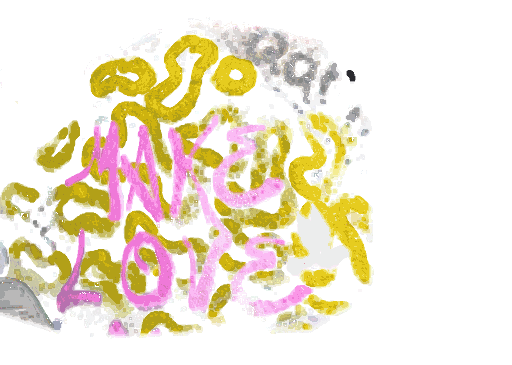
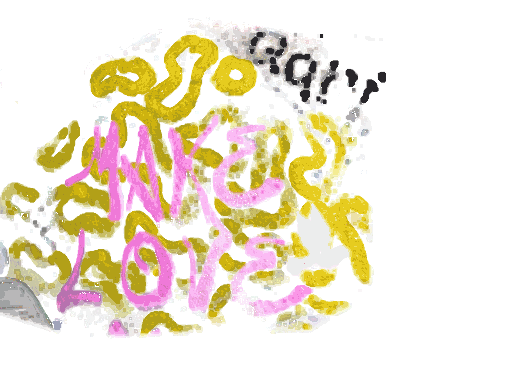
feat(ascii-cave): 換成第十二版（地毯段、整圈回頭、陀螺儀）
- 每圈一段亞美尼亞地毯隧道，新增四張地毯貼圖
- 左右可整圈回頭，手機與平板可用陀螺儀轉視角

Changed region(s): [[0.4688, 0.0603, 0.75, 0.3014]]

diff --git a/ascii-cave/index.html b/ascii-cave/index.html
@@ -35,6 +35,15 @@
   }
   #msg.off { opacity: 0; }
   #msg.err { color: var(--text); }
+  #gyro {
+    position: fixed; z-index: 1; width: 34px; height: 34px; padding: 0; border-radius: 50%;
+    top: calc(env(safe-area-inset-top, 0px) + 10px); right: calc(env(safe-area-inset-right, 0px) + 10px);
+    border: 1px solid rgba(232, 226, 210, 0.18); background: rgba(0, 0, 0, 0.35); color: var(--hint);
+    display: grid; place-items: center; touch-action: manipulation;
+  }
+  #gyro[hidden] { display: none; }
+  #gyro[aria-pressed="false"] { opacity: 0.45; }
+  #gyro svg { width: 18px; height: 18px; }
   #safe {
     position: fixed; visibility: hidden; pointer-events: none;
     padding: env(safe-area-inset-top, 0px) env(safe-area-inset-right, 0px) env(safe-area-inset-bottom, 0px) env(safe-area-inset-left, 0px);
@@ -53,6 +62,11 @@
 <body>
 <canvas id="view" role="img" aria-label="ASCII 字元畫的鐵道隧道，手電筒一直往前照，點擊或觸控畫面可以改變光照的方向"></canvas>
 <p id="msg" hidden>點畫面照亮</p>
+<button id="gyro" type="button" hidden aria-pressed="true" aria-label="轉動手機看四周：點一下關掉，再點一下從現在的方向重新對準">
+  <svg viewBox="0 0 20 20" fill="none" stroke="currentColor" stroke-width="1.4" stroke-linecap="round" aria-hidden="true">
+    <rect x="7" y="4" width="6" height="12" rx="1.2"/><path d="M3.5 7.5a7 7 0 0 0 0 5M16.5 7.5a7 7 0 0 1 0 5"/>
+  </svg>
+</button>
 <div id="safe"></div>
 <script type="module">
 import * as THREE from 'three';
@@ -79,7 +93,8 @@ async function start() {
   // ---------- constants ----------
   const R = 2.3, HW = 2.0, S = 2 * HW + Math.PI * R;   // tunnel half width, wall height, profile length
   const NS = 72, DS = S / NS;                          // samples around the arch
-  const DZ = 0.25, SEG_L = 12, NZ = SEG_L / DZ, SEGS = 7; // segment layout: one 12 m segment behind, six ahead
+  // segment layout: three 12 m segments behind (so turning round still finds walls), six ahead
+  const DZ = 0.25, SEG_L = 12, NZ = SEG_L / DZ, BEHIND = 3, SEGS = BEHIND + 6;
   const EYE = 1.6, SPEED = 1.15;                       // eye height, walk speed (m/s)
   // scene texels per cell side; by default 1 for the 3-4 px cells, which are nearly pixels already (README has the numbers)
   const K_FORCED = [1, 2, 3, 4].includes(Number(params.get('k'))) ? Number(params.get('k')) : 0;
@@ -264,6 +279,9 @@ async function start() {
   const TUNNEL_SLOTS = 13, WALK_SLOTS = 10, CYCLE = TUNNEL_SLOTS + WALK_SLOTS;
   const isWalk = (n) => n % CYCLE >= TUNNEL_SLOTS;
   const isGround = (n) => n % CYCLE === TUNNEL_SLOTS || n % CYCLE === CYCLE - 1;
+  // the carpet stretch: slots 7-8 of each cycle (84-108 m in), where no cat, mural or poster falls in the first cycle
+  const CARPET_SLOT = 7, CARPET_LEN = 2 * SEG_L;
+  const isCarpet = (n) => { const m = ((n % CYCLE) + CYCLE) % CYCLE; return m >= CARPET_SLOT && m < CARPET_SLOT + CARPET_LEN / SEG_L; };
   const zoneExit = (k) => 4 - SEG_L * (TUNNEL_SLOTS + CYCLE * k); // z where the k-th walkway leaves the tunnel
   let bag = [];
   const rand = (a, b) => a + Math.random() * (b - a);
@@ -282,7 +300,7 @@ async function start() {
     }
     decal.setIndex(new THREE.BufferAttribute(new Uint16Array(DECAL_INDEX), 1).setUsage(THREE.DynamicDrawUsage));
     const seg = {
-      z0: Z_FIRST - (k - 1) * SEG_L, P: new Float32Array(GW * GH * 3), N: new Float32Array(GW * GH * 3),
+      z0: Z_FIRST - (k - BEHIND) * SEG_L, P: new Float32Array(GW * GH * 3), N: new Float32Array(GW * GH * 3),
       wall: new THREE.Mesh(wall, wallMat), decal: new THREE.Mesh(decal, decalMat), nv: 0, ni: 0,
     };
     seg.wall.frustumCulled = seg.decal.frustumCulled = false; // rebuilt in place, bounds would go stale
@@ -337,7 +355,8 @@ async function start() {
     seg.nv = seg.ni = 0;
     const n = slot(seg), top = seg.z0 + SEG_L - rand(0.05, 0.6);
     const cat = special['cat-band'], sun = special['mural-sun'], dish = special['mural-dish'], poster = special.poster;
-    if (PIN && n === Math.floor(START / SEG_L)) { // ?pin=name: that piece on the right wall a few metres ahead (checks)
+    if (isCarpet(n)) { // the rugs cover these walls: no graffiti, and the cat or a mural waits for another stretch
+    } else if (PIN && n === Math.floor(START / SEG_L)) { // ?pin=name: that piece on the right wall a few metres ahead (checks)
       const H = 1.5, L = H * PIN.aspect, zc = seg.z0 + (SEG_L - L) / 2 - 2;
       addDecal(seg, 1, 0.4, 0.4 + H, zc, zc + L, PIN, 1.2);
       fill(seg, 1, zc + L + 0.4, top); fill(seg, 1, seg.z0 + 0.1, zc - 0.4); fill(seg, -1, seg.z0 + 0.1, top);
@@ -502,6 +521,89 @@ async function start() {
   // black lid on the far end of the built tunnel, so the outdoors never shows through where the walls stop
   const cap = new THREE.Mesh(new THREE.PlaneGeometry(16, 12).translate(0, 4, 0), new THREE.MeshBasicMaterial({ color: 0 }));
   scene.add(cap);
+
+  // ---------- the carpet stretch: two segments of every cycle lined with Armenian rugs (carpets/IMG_6744, IMG_7326) ----------
+  // Rugs hang on both walls, sagging, some crooked or with a corner come loose, and lie in heaps along them: folded
+  // stacks, flattened rolls, one slid down and spread on the floor. The pictures are rugs cropped off photos and aged
+  // (tools/crop_graffiti.py, rug-*); one material and one draw call for the lot; only the torch lights them.
+  const carpets = await (async () => {
+    const imgs = (await Promise.all(['horses', 'crosses', 'diamonds', 'medallion'].map(async (n) => {
+      const img = new Image();
+      img.crossOrigin = 'anonymous';
+      img.src = `assets/graffiti/rug-${n}.jpg`;
+      try { await img.decode(); return img; } catch { return null; }
+    }))).filter(Boolean);
+    if (!imgs.length) return null;
+    const c = document.createElement('canvas');
+    c.width = imgs.reduce((s, i) => s + i.width, 0); c.height = Math.max(...imgs.map((i) => i.height));
+    let ax = 0;
+    const rugs = imgs.map((img) => {
+      c.getContext('2d').drawImage(img, ax, 0);
+      const r = { u0: ax / c.width, du: img.width / c.width, v0: 1 - img.height / c.height, dv: img.height / c.height, aspect: img.width / img.height };
+      ax += img.width;
+      return r;
+    });
+    const tex = new THREE.CanvasTexture(c);
+    tex.colorSpace = THREE.SRGBColorSpace; tex.anisotropy = 4;
+    let seed = 6744; // the same layout every time
+    const rnd = (a, b) => { seed = (seed * 16807) % 2147483647; return a + (seed / 2147483647) * (b - a); };
+    const pick = () => rugs[Math.floor(rnd(0, rugs.length))];
+    const fitUV = (geo, r, part = 1) => { // into one rug's rect of the atlas (part < 1: a random piece of it)
+      const uv = geo.attributes.uv, du = r.du * part, dv = r.dv * part, u0 = r.u0 + rnd(0, r.du - du), v0 = r.v0 + rnd(0, r.dv - dv);
+      for (let i = 0; i < uv.count; i++) uv.setXY(i, u0 + uv.getX(i) * du, v0 + uv.getY(i) * dv);
+      return geo;
+    };
+    const parts = [];
+    for (const side of [-1, 1]) {
+      for (let z = -0.5, k = 0; z > -CARPET_LEN + 1.2; k++) { // hanging on the wall, side by side, a little overlapped
+        const r = pick(), h = rnd(1.3, 1.8), w = h * r.aspect, top = rnd(1.95, 2.15), loose = rnd(0, 1) < 0.3;
+        const g = fitUV(new THREE.PlaneGeometry(w, h, 6, 8), r), p = g.attributes.position;
+        for (let i = 0; i < p.count; i++) {
+          const u = p.getX(i) / w + 0.5, v = p.getY(i) / h + 0.5; // 0..1 across, bottom to top
+          let dy = 0, dz = 0.07 * (1 - v) ** 2 * (1 - (2 * u - 1) ** 2); // the lower middle bellies out from the wall
+          if (loose) { const t = Math.max(0, (u - 0.55) / 0.45) * Math.max(0, (v - 0.4) / 0.6); dy -= t * t * 0.4 * h; dz += t * 0.3; }
+          p.setY(i, p.getY(i) + dy); p.setZ(i, dz);
+        }
+        g.rotateZ(rnd(-0.07, 0.07)).rotateY(-side * Math.PI / 2).translate(side * (R - 0.05 - (k % 2) * 0.03), top - h / 2, z - w / 2);
+        g.computeVertexNormals();
+        parts.push(g);
+        z -= w + rnd(-0.15, 0.3);
+      }
+      for (let z = -0.8; z > -CARPET_LEN + 1; ) { // heaped along the foot of the wall
+        const r = pick(), kind = rnd(0, 1), x = side * rnd(1.35, 1.8);
+        if (kind < 0.45) { // a stack of folded rugs
+          let y = 0;
+          const n = Math.floor(rnd(3, 8)), len = rnd(0.9, 1.3);
+          for (let i = 0; i < n; i++) {
+            const t = rnd(0.07, 0.12);
+            parts.push(fitUV(new THREE.BoxGeometry(rnd(0.5, 0.75), t, len * rnd(0.9, 1.05)), pick(), 0.4)
+              .rotateY(rnd(-0.18, 0.18)).translate(x + rnd(-0.05, 0.05), y + t / 2, z - len / 2));
+            y += t;
+          }
+          z -= len + rnd(0.2, 0.6);
+        } else if (kind < 0.85) { // rolled up and squashed flat by its own weight
+          const rad = rnd(0.11, 0.18), len = rnd(1.1, 1.9);
+          parts.push(fitUV(new THREE.CylinderGeometry(rad, rad, len, 14, 1), r).rotateX(Math.PI / 2).scale(1, 0.75, 1)
+            .rotateY(rnd(-0.25, 0.25)).translate(x, rad * 0.75, z - len / 2));
+          z -= rnd(0.3, 0.8);
+        } else { // fallen off the wall and spread across the floor, still leaning on it at the back
+          const w = 1.2, len = w / r.aspect, g = fitUV(new THREE.PlaneGeometry(w, len, 6, 8), r), p = g.attributes.position;
+          for (let i = 0; i < p.count; i++) {
+            const u = p.getX(i) / w + 0.5;
+            p.setZ(i, 0.04 * Math.sin(p.getY(i) * 5 + u * 3) + (side > 0 ? u : 1 - u) ** 3 * 0.45);
+          }
+          g.rotateX(-Math.PI / 2).translate(side * (R - 0.75), 0.02, z - len / 2);
+          g.computeVertexNormals();
+          parts.push(g);
+          z -= len + rnd(0.2, 0.5);
+        }
+      }
+    }
+    const mesh = new THREE.Mesh(mergeGeometries(parts), new THREE.MeshStandardMaterial({ map: tex, roughness: 0.95, side: THREE.DoubleSide }));
+    mesh.frustumCulled = false; // it is moved along with the cycle
+    scene.add(mesh);
+    return mesh;
+  })();
 
   // ---------- outside: the ROT-54 walkway (docs/rot54-reference.md); local z = 0 is the tunnel exit ----------
   const WALK_L = WALK_SLOTS * SEG_L, GROUND_L = SEG_L, RIM_Y = -1.6, DISH = { x: 28.5, z: -60, r: 27, R: 48 };
@@ -971,39 +1073,83 @@ async function start() {
 
   // ---------- looking: tap turns the view (and the torch with it) toward that point, drag keeps turning ----------
   // Like a first-person game: the camera turns, the hand stays where it is on screen and the beam lands mid-screen.
-  // The walk itself always follows the tunnel. After a few idle seconds the view drifts back to rest.
-  const YAW_MAX = 75 * DEG, PITCH_MIN = -35 * DEG, PITCH_MAX = 45 * DEG, PITCH_REST = -8 * DEG;
+  // The walk itself always follows the tunnel. Left and right go all the way round; up and down are limited. After a
+  // few idle seconds the view drifts back to rest, the short way round.
+  const PITCH_MIN = -35 * DEG, PITCH_MAX = 45 * DEG, PITCH_REST = -8 * DEG;
   const look = { yaw: 0, pitch: PITCH_REST, yawGoal: 0, pitchGoal: PITCH_REST, idle: 99, rest: 0, restPitch: PITCH_REST };
   const dir = new THREE.Vector3(), target = new THREE.Vector3(), head = new THREE.Vector3();
-  let pressing = false, touched = false, lastX = 0, lastY = 0;
-  const clampLook = () => {
-    look.yawGoal = THREE.MathUtils.clamp(look.yawGoal, -YAW_MAX, YAW_MAX);
-    look.pitchGoal = THREE.MathUtils.clamp(look.pitchGoal, PITCH_MIN, PITCH_MAX);
-  };
+  const wrapAngle = (a) => a - Math.round(a / TAU) * TAU; // to -180..180 deg, for the short way round
+  let pressing = false, touched = false, lastX = 0, lastY = 0, msgTimer = 0;
+  const clampLook = () => { look.pitchGoal = THREE.MathUtils.clamp(look.pitchGoal, PITCH_MIN, PITCH_MAX); };
+  function showMsg(text) { // one line in the hint's place, fading out after a while
+    msg.textContent = text; msg.hidden = false; msg.classList.remove('off');
+    clearTimeout(msgTimer);
+    msgTimer = setTimeout(() => { msg.classList.add('off'); msgTimer = setTimeout(() => { msg.hidden = true; }, 1300); }, 3000);
+  }
+
+  // phones and tablets: turning the device turns the view (DeviceOrientation). The first touch asks for the sensor
+  // (iOS only lets a page ask from inside a tap); the device's direction at its first reading stands for the view as
+  // it is then. While it runs the view does not drift back to rest, and taps and drags add to it. The corner button
+  // turns it off, and on again from wherever the device points then.
+  const gyro = { on: false, asked: false, base: null, prev: 0, yaw: 0, pitch: 0, addYaw: 0, addPitch: 0 };
+  const gyroBtn = document.getElementById('gyro');
+  const qDev = new THREE.Quaternion(), qScreen = new THREE.Quaternion(), eDev = new THREE.Euler(), fwd = new THREE.Vector3();
+  const Q_BACK = new THREE.Quaternion(-Math.SQRT1_2, 0, 0, Math.SQRT1_2), Z_AXIS = new THREE.Vector3(0, 0, 1);
+  function onOrient(e) {
+    if (!gyro.on || e.alpha == null || e.beta == null) return;
+    const screenAngle = (screen.orientation ? screen.orientation.angle : window.orientation || 0) * DEG; // portrait or landscape
+    eDev.set(e.beta * DEG, e.alpha * DEG, -(e.gamma || 0) * DEG, 'YXZ'); // the device in the world
+    qDev.setFromEuler(eDev).multiply(Q_BACK).multiply(qScreen.setFromAxisAngle(Z_AXIS, -screenAngle)); // a camera behind the screen
+    fwd.set(0, 0, -1).applyQuaternion(qDev);
+    const yaw = Math.atan2(-fwd.x, -fwd.z), pitch = Math.asin(THREE.MathUtils.clamp(fwd.y, -1, 1));
+    if (!gyro.base) {
+      gyro.base = pitch - look.pitch; gyro.prev = yaw; gyro.yaw = look.yaw; gyro.addYaw = gyro.addPitch = 0;
+      gyroBtn.hidden = false; gyroBtn.setAttribute('aria-pressed', 'true');
+      showMsg('轉動手機看四周');
+    }
+    gyro.yaw += wrapAngle(yaw - gyro.prev); gyro.prev = yaw; // unwrapped, so turning round keeps going
+    gyro.pitch = pitch - gyro.base;
+  }
+  function askGyro() {
+    if (gyro.asked || !window.DeviceOrientationEvent || !(matchMedia('(pointer: coarse)').matches || navigator.maxTouchPoints > 0)) return;
+    gyro.asked = true;
+    const start = () => { gyro.on = true; gyro.base = null; addEventListener('deviceorientation', onOrient); };
+    if (typeof DeviceOrientationEvent.requestPermission === 'function') { // iOS 13+: a system prompt, answered once per site
+      DeviceOrientationEvent.requestPermission().then((s) => { if (s === 'granted') start(); }).catch(() => {});
+    } else start();
+  }
+  gyroBtn.addEventListener('click', () => {
+    gyro.on = !gyro.on; gyro.base = null; // on again: recentred on the device's direction at its next reading
+    gyroBtn.setAttribute('aria-pressed', String(gyro.on));
+    showMsg(gyro.on ? '轉動手機看四周' : '陀螺儀關閉，點畫面照亮');
+  });
+  const gyroLive = () => gyro.on && gyro.base !== null;
+  function turnBy(dYaw, dPitch) { // a drag or tap: added on top of the device's direction when that drives the view
+    if (gyroLive()) { gyro.addYaw += dYaw; gyro.addPitch += dPitch; return; }
+    look.yawGoal += dYaw; look.pitchGoal += dPitch; clampLook();
+  }
+
   function lookAtPointer(e) { // aim the view at the point under the pointer, as the camera stands now
     const r = canvas.getBoundingClientRect();
     const fx = (e.clientX - r.left) / r.width, fy = 1 - (e.clientY - r.top) / r.height;
     const tanV = Math.tan(camera.fov * DEG / 2);
     const sx = ((fx * L.W + L.offX) / (L.cols * L.cell)) * 2 - 1, sy = ((fy * L.H + L.offY) / (L.rows * L.cell)) * 2 - 1;
     dir.set(sx * tanV * camera.aspect, sy * tanV, -1).normalize().applyQuaternion(camera.quaternion);
-    look.yawGoal = Math.atan2(-dir.x, -dir.z);
-    look.pitchGoal = Math.asin(dir.y);
-    clampLook();
+    turnBy(wrapAngle(Math.atan2(-dir.x, -dir.z) - look.yaw) + look.yaw - look.yawGoal, Math.asin(dir.y) - look.pitchGoal);
   }
   canvas.addEventListener('pointerdown', (e) => {
     pressing = touched = true;
     canvas.setPointerCapture(e.pointerId);
     lastX = e.clientX; lastY = e.clientY; look.idle = 0;
+    askGyro();
     lookAtPointer(e);
     if (!msg.hidden) { msg.classList.add('off'); setTimeout(() => { msg.hidden = true; }, 1300); }
   });
   canvas.addEventListener('pointermove', (e) => {
     if (!pressing) return;
     const perPx = (2 * Math.atan(Math.tan(camera.fov * DEG / 2))) / canvas.clientHeight; // radians per CSS pixel
-    look.yawGoal -= (e.clientX - lastX) * perPx; // drag right, turn right
-    look.pitchGoal += (lastY - e.clientY) * perPx;
+    turnBy(-(e.clientX - lastX) * perPx, (lastY - e.clientY) * perPx); // drag right, turn right
     lastX = e.clientX; lastY = e.clientY; look.idle = 0;
-    clampLook();
   });
   const release = () => { pressing = false; };
   canvas.addEventListener('pointerup', release);
@@ -1038,8 +1184,8 @@ async function start() {
     camera.position.z = -walked;
     const phase = walked / 0.75 * Math.PI * 2;
     if (BOB) camera.position.x = Math.sin(phase / 2) * 0.012;
-    // one segment is kept behind the eye, so turning to look sideways never finds the walls gone
-    for (const seg of segments) if (seg.z0 > camera.position.z + 1 + SEG_L) { seg.z0 -= SEGS * SEG_L; buildSegment(seg); }
+    // segments are kept behind the eye too, so turning round never finds the walls gone (the far end stays dark)
+    for (const seg of segments) if (seg.z0 > camera.position.z + 1 + BEHIND * SEG_L) { seg.z0 -= SEGS * SEG_L; buildSegment(seg); }
     // outdoors only while a walkway slot is among the built ones; the lid closes the tunnel where the walls stop
     let zone = -1, far = segments[0];
     for (const seg of segments) { if (seg.walk) zone = Math.floor(slot(seg) / CYCLE); if (seg.z0 < far.z0) far = seg; }
@@ -1055,12 +1201,19 @@ async function start() {
     camera.position.y = EYE + lift + (BOB ? Math.sin(phase) * 0.022 : 0);
     cap.visible = !far.walk;
     cap.position.z = far.z0;
+    if (carpets) { // the rugs stand in the carpet stretch of the nearest cycle
+      const n = Math.floor((4 - camera.position.z) / SEG_L), k = Math.round((n - CARPET_SLOT - 1) / CYCLE);
+      carpets.position.z = 4 - (CYCLE * k + CARPET_SLOT) * SEG_L;
+    }
     sky.position.copy(camera.position);
 
     look.idle += dt;
-    if (look.idle > 3.5 && !pressing) { // drift back to rest: straight ahead in the tunnel, toward the mirror outside
+    if (gyroLive()) { // the device's direction, plus what taps and drags added; no drifting back
+      look.yawGoal = gyro.yaw + gyro.addYaw;
+      look.pitchGoal = THREE.MathUtils.clamp(gyro.pitch + gyro.addPitch, PITCH_MIN, PITCH_MAX);
+    } else if (look.idle > 3.5 && !pressing) { // drift back to rest: ahead in the tunnel, toward the mirror outside
       const k = 1 - Math.exp(-dt / 1.2);
-      look.yawGoal += (look.rest - look.yawGoal) * k;
+      look.yawGoal += wrapAngle(look.rest - look.yawGoal) * k; // the short way round
       look.pitchGoal += (look.restPitch - look.pitchGoal) * k;
     }
     const prevYaw = look.yaw, s = 1 - Math.exp(-dt / 0.09); // about 0.3 s to settle

diff --git a/CHANGELOG.md b/CHANGELOG.md
@@ -1,5 +1,8 @@
 # Changelog
 
+## 2026-11-08（第十二版）
+- `ascii-cave/` 換成第十二版（原始碼 repo `6ec3d4a`）：每圈有一段兩側掛滿、地上堆滿亞美尼亞地毯的隧道（新增 `assets/graffiti/rug-*.jpg` 四張）；左右可以整圈回頭；手機與平板可用陀螺儀轉視角（iPhone 第一次點畫面時詢問權限，右上角小圖示可關掉或重新校正）；make love 上方的黑字描回。
+
 ## 2026-11-08（第十一版）
 - `ascii-cave/` 換成第十一版（原始碼 repo `abdf09f`）：塗鴉恢復去背版（6 張透明 PNG、`card.jpg` 補牆），字為主的幾張與太淡的幾張加強筆跡（加粗、壓深、提高對比或飽和），「Protect trans Kids」壓到近黑並加粗，TUGAN 的五芒星補回。頁面多一個截圖用的 `?pin=` 參數。
 
